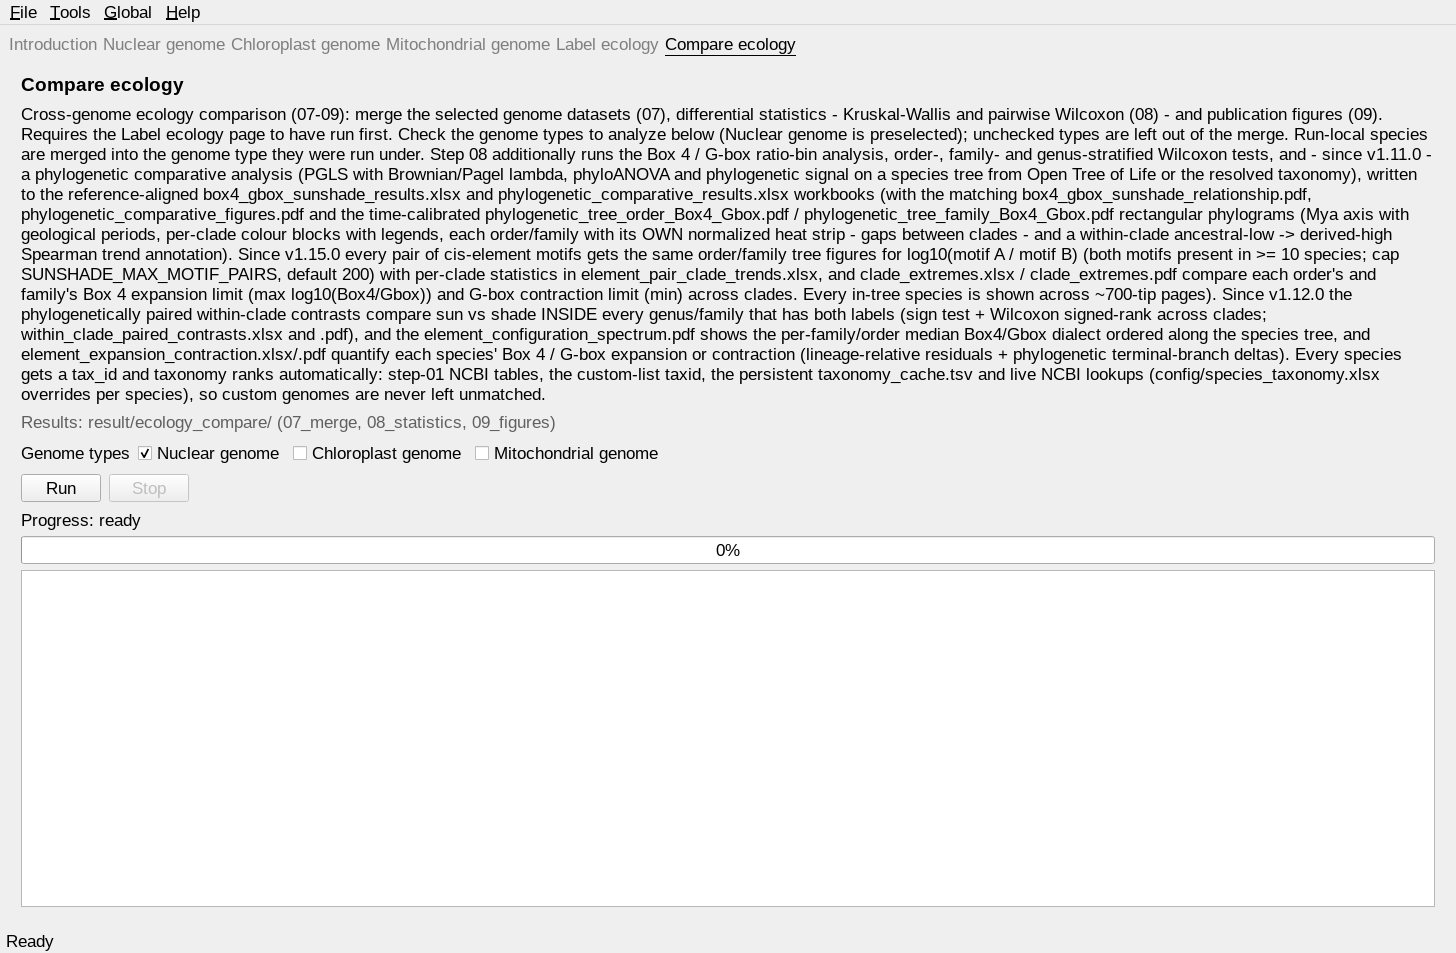
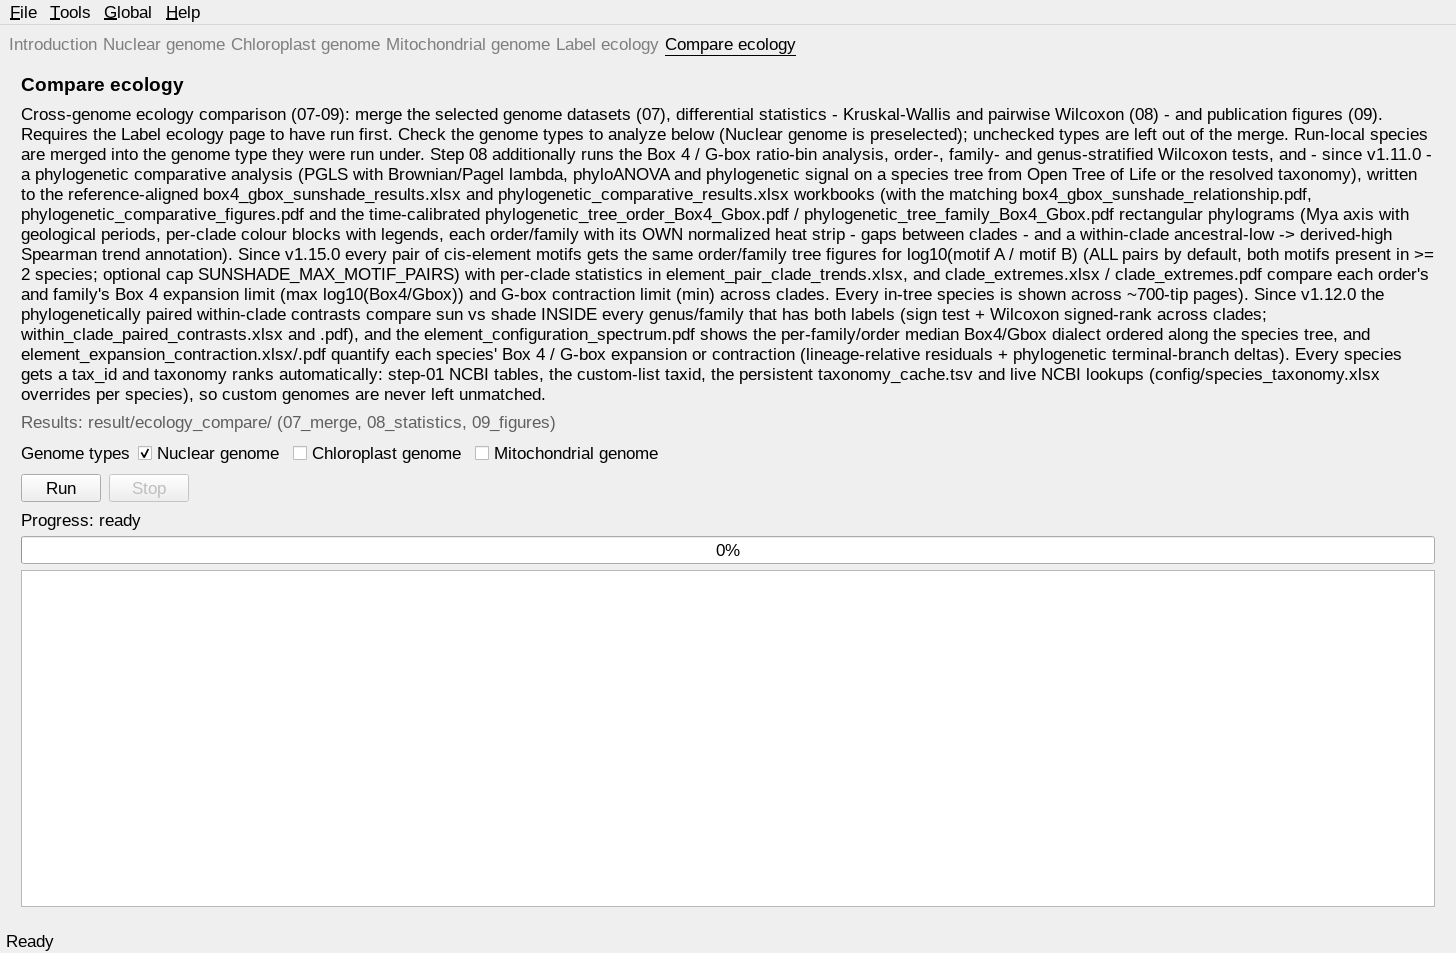
docs: v1.15.1 pairwise motif-ratio trees, clade extremes and figure polish

Changed region(s): [[0.0, 0.2434, 0.989, 0.3347]]

diff --git a/docs/conf.py b/docs/conf.py
@@ -9,8 +9,8 @@ author = "sunshadeCisseeker developers"
 copyright = "2026, sunshadeCisseeker developers"
 
 # The short X.Y version and the full release version.
-version = "v1.15.0"
-release = "v1.15.0"
+version = "v1.15.1"
+release = "v1.15.1"
 
 extensions = [
     "sphinx.ext.autosectionlabel",

diff --git a/docs/content/Outputs.rst b/docs/content/Outputs.rst
@@ -56,7 +56,7 @@ Ecology comparison outputs
    * - ``result/ecology_compare/08_statistics/phylogenetic_comparative_results.xlsx`` (v1.11.0)
      - phylogenetic comparative results: ``Tree_species`` / ``Phylogenetic_signal`` (Blomberg K, Pagel lambda) / ``PGLS_models`` (OLS vs Brownian vs Pagel-lambda PGLS with AICc; ratio plus the two counts adjusted for log10 promoters) / ``phyloANOVA`` (999 Brownian simulations) / ``Input_audit``
    * - ``result/ecology_compare/09_figures/phylogenetic_comparative_figures.pdf`` (v1.11.0)
-     - portrait A4 page: (a) data summary of the comparative analyses (in-tree species per genome type and light habitat + the log10 Box4/G-box ratio density per genome type), (b) ratio per habitat with phyloANOVA P, (c) PGLS coefficient forest, (d) phylogenetic signal, (e) Box 4 vs G-box count scatter, (f) delta-AICc model comparison; every panel is drawn as pure vector ggplot2 geometry
+     - portrait A4 page: (a) in-tree species per genome type and light habitat, (b) the log10 Box4/G-box ratio density per genome type, (c) ratio per habitat with phyloANOVA P, (d) PGLS coefficient forest, (e) phylogenetic signal, (f) Box 4 vs G-box count scatter, (g) delta-AICc model comparison; every panel is drawn as pure vector ggplot2 geometry on a flat 2-column grid
    * - ``result/ecology_compare/09_figures/phylogenetic_tree_order_Box4_Gbox.pdf`` (v1.13.0, v1.14.0 time-calibrated, v1.15.0 renamed)
      - rectangular (orthogonal) phylogram per order on a rank-calibrated Mya time axis (present at the right, basal lineages at the bottom, geological periods as background bands); every in-tree species appears across ~700-tip pages; per-clade colour blocks with an adaptive complete legend (orders below 3 tips merge into one grey bucket); each order has its OWN heat scale (within-clade percentile of log10(Box 4 / G-box), white gaps between the clade blocks) and its clade label carries the within-clade Spearman trend test of the ancestral-low → derived-high hypothesis
    * - ``result/ecology_compare/09_figures/phylogenetic_tree_family_Box4_Gbox.pdf`` (v1.13.0, v1.14.0 time-calibrated, v1.15.0 renamed)
@@ -64,7 +64,7 @@ Ecology comparison outputs
    * - ``result/ecology_compare/09_figures/clade_trend_tests_Box4_Gbox.tsv`` (v1.14.0, v1.15.0 renamed)
      - per-clade statistics behind the Box 4 / G-box tree figures: genome type, clade level (order/family), clade, species n, Spearman rho between the species' position along the clade (basal → derived) and its log10(Box 4 / G-box), P value and direction (derived_high / derived_low / flat / no_variation)
    * - ``result/ecology_compare/09_figures/phylogenetic_tree_order_<A>_vs_<B>.pdf`` / ``phylogenetic_tree_family_<A>_vs_<B>.pdf`` (v1.15.0)
-     - the same time-calibrated order/family tree figures for every unordered pair of cis-element motifs with log10(count A / count B) (both motifs present in >= 10 labeled species; the pair count is capped by ``SUNSHADE_MAX_MOTIF_PAIRS``, default 200); the per-clade trend statistics are collected in ``element_pair_clade_trends.xlsx`` (one sheet per pair and level)
+     - the same time-calibrated order/family tree figures for every unordered pair of cis-element motifs with log10(count A / count B) (ALL pairs are processed by default; both motifs must occur in >= 2 labeled species; ``SUNSHADE_MAX_MOTIF_PAIRS`` remains as an optional cap); the per-clade trend statistics are collected in ``element_pair_clade_trends.xlsx`` (one sheet per pair and level)
    * - ``result/ecology_compare/09_figures/element_pair_clade_trends.xlsx`` (v1.15.0)
      - per-clade within-clade Spearman trend tests (ancestral-low → derived-high) of log10(motif A / motif B) per genome type and clade level, one sheet per pair
    * - ``result/ecology_compare/08_statistics/clade_extremes.xlsx`` (v1.15.0)

diff --git a/docs/content/Changelog.rst b/docs/content/Changelog.rst
@@ -1,6 +1,31 @@
 Changelog
 =========
 
+1.15.1 — panel-grid and label-overlap fixes, all motif pairs processed
+----------------------------------------------------------------------
+
+* ``phylogenetic_comparative_figures.pdf`` was rebuilt on a **flat 2-column
+  grid** ((a) species summary | (b) ratio density, then c-g): the nested
+  panel (a) and its title strip are gone, so panel (a) can no longer
+  overlap itself or panel (b). Panels are re-lettered a-g accordingly.
+* ``clade_extremes.pdf``: the extreme-clade labels now point away from the
+  plot edges (below the maxima, above the minima) and use
+  ``check_overlap``, so the labels no longer collide with each other or
+  with the panel titles.
+* **All motif pairs are processed by default**: the 200-pair cap is gone
+  (``SUNSHADE_MAX_MOTIF_PAIRS`` remains as an optional cap) and the
+  presence filter is relaxed to "both motifs occur in >= 2 labeled
+  species", so every qualifying pair gets its own
+  ``phylogenetic_tree_order_<A>_vs_<B>.pdf`` /
+  ``phylogenetic_tree_family_<A>_vs_<B>.pdf`` with the corresponding
+  log10(A/B) heat strip.
+* ``box4_gbox_ratio.pdf`` panel (d) (the motif count balance): fewer
+  log10 axis breaks and smaller facet strip / axis text, so the tick
+  labels no longer overlap in the three per-type facets.
+* The ecology end-to-end publication audit now also checks
+  ``box4_gbox_ratio.pdf``, ``ecology_figures.pdf`` and the other A4
+  figures for overlapping and out-of-bounds text.
+
 1.15.0 — publication-grade tree figures, clade extremes and pairwise motif-ratio trees
 ---------------------------------------------------------------------------------------
 

diff --git a/docs/content/Ecology comparison.rst b/docs/content/Ecology comparison.rst
@@ -272,11 +272,11 @@ unordered pair of cis-element motifs** in the master dataset: for
 ``phylogenetic_tree_family_<A>_vs_<B>.pdf`` (same layout, heat scale and
 trend annotations as the Box 4 / G-box figures) and collects the per-clade
 trend statistics into ``element_pair_clade_trends.xlsx`` (one sheet per
-pair and level). A pair is analysed only when both motifs occur in at
-least 10 labeled species (otherwise the ratio is meaningless for most
-species); the number of processed pairs is capped by the environment
-variable ``SUNSHADE_MAX_MOTIF_PAIRS`` (default 200 — raise it to include
-all pairs).
+pair and level). **All motif pairs are processed by default** (a pair is
+included when both motifs occur in at least 2 labeled species, so the
+ratio and its heat strip are defined); the optional environment variable
+``SUNSHADE_MAX_MOTIF_PAIRS`` can still cap the run for very large motif
+libraries.
 
 Clade extremes (v1.15.0)
 ~~~~~~~~~~~~~~~~~~~~~~~~
